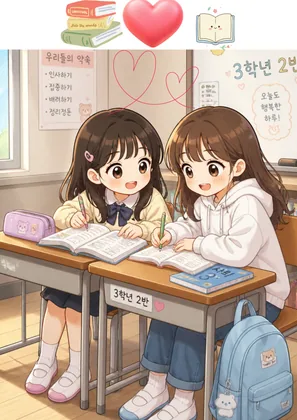
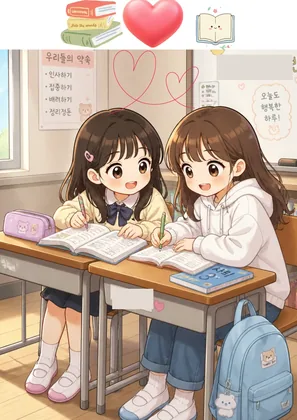
Mask class labels in two works; restyle building signs and labels
- Paint over the "3학년 2반" text inside TL-1WYZqJb (wall and desk
  label) and TL-dbGqjWr (notice board) with surrounding colours
- Building sign boards show the room name in large lettering with a
  light outline and shadow; door hints and wall titles use rounded badges
- README and HANDOFF updated

Claude-Session: https://claude.ai/code/session_012cXJKZMG6rKtYv5PJtC9mK

Changed region(s): [[0.7273, 0.1238, 0.9091, 0.2167], [0.3636, 0.681, 0.5152, 0.7429], [0.9394, 0.1238, 1.0, 0.1857]]

diff --git a/songjeong-ai-exhibition/game.js b/songjeong-ai-exhibition/game.js
@@ -236,7 +236,7 @@ const Game = (() => {
     ctx.restore();
   }
   function labelStyle(kind) {
-    return {building:{font:'16px', fill:'#fff', bg:null, stroke:'#18332b'}, small:{font:'12px', fill:'#fff', stroke:'rgba(0,0,0,.6)'}, sign:{font:'12px', fill:'#6b4e12'}, zone:{font:'13px', fill:'#18332b'}, board:{font:'15px', fill:'#6b4e12'}, title:{font:'12px', fill:'#fff', stroke:'rgba(0,0,0,.7)'}}[kind];
+    return {building:{font:'16px', fill:'#fff', bg:null, stroke:'#18332b'}, small:{font:'12px', fill:'#fff'}, sign:{font:'12px', fill:'#6b4e12'}, zone:{font:'14px', fill:'#18332b'}, board:{font:'22px', fill:'#5a3a12'}, title:{font:'12px', fill:'#fff'}}[kind];
   }
   function drawLabels(which) {
     ctx.save(); ctx.setTransform(dpr, 0, 0, dpr, 0, 0); ctx.textAlign = 'center'; ctx.textBaseline = 'middle';
@@ -247,6 +247,16 @@ const Game = (() => {
       const st = labelStyle(l.kind), sx = (l.x - camera.x) * scale, sy = (l.y - camera.y) * scale;
       ctx.font = st.font + ' ' + FONT;
       if (l.kind === 'building') { const tw = ctx.measureText(l.text).width + 18; ctx.fillStyle = l.color; roundRect(sx - tw / 2, sy - 12, tw, 24, 12); ctx.fill(); }
+      if (l.kind === 'small' || l.kind === 'title') {           // 둥근 배지
+        const tw = ctx.measureText(l.text).width + 14, th = l.kind === 'title' ? 20 : 18;
+        ctx.fillStyle = 'rgba(24,51,43,.78)'; roundRect(sx - tw / 2, sy - th / 2, tw, th, th / 2); ctx.fill();
+        ctx.fillStyle = '#fff'; ctx.fillText(l.text, sx, sy + 1); continue;
+      }
+      if (l.kind === 'board') {                                  // 간판: 큰 글자 + 밝은 외곽선 + 그림자
+        ctx.lineWidth = 5; ctx.strokeStyle = '#fff3d6'; ctx.lineJoin = 'round'; ctx.strokeText(l.text, sx, sy);
+        ctx.fillStyle = 'rgba(0,0,0,.18)'; ctx.fillText(l.text, sx + 1.5, sy + 2);
+        ctx.fillStyle = st.fill; ctx.fillText(l.text, sx, sy); continue;
+      }
       if (st.stroke) { ctx.lineWidth = 3; ctx.strokeStyle = st.stroke; ctx.strokeText(l.text, sx, sy); }
       ctx.fillStyle = l.kind === 'zone' ? l.color : st.fill;
       ctx.fillText(l.text, sx, sy);

diff --git a/songjeong-ai-exhibition/maps.js b/songjeong-ai-exhibition/maps.js
@@ -99,7 +99,7 @@ function buildVillageArt() {
     block(x0, 4, x1, 12);
     m.block(dx, 12, 0); m.block(dx + 1, 12, 0);
     m.portals.push({x:dx, y:12, to:room.id}, {x:dx + 1, y:12, to:room.id});
-    m.labels.push({x:(x0 + x1 + 1) / 2 * TILE + (i === 0 ? 12 : i === 1 ? 10 : 8), y:7.75 * TILE, text:room.icon + ' ' + room.label, kind:'board'});
+    m.labels.push({x:(x0 + x1 + 1) / 2 * TILE + (i === 0 ? 12 : i === 1 ? 10 : 8), y:7.75 * TILE, text:room.label, kind:'board'});
     m.labels.push({x:(dx + 1) * TILE, y:13.5 * TILE, text:room.hint, kind:'small'});
   });
   block(3, 10, 3, 12); block(16, 10, 17, 11); block(30, 11, 32, 12); block(44, 10, 45, 12);   // 건물 옆 덤불
@@ -138,7 +138,7 @@ function buildRoom(room, works) {
     if (b > 0) for (let x = 3; x < W - 3; x++) m.set(x, top, wallTop, true);       // 칸막이 (양 끝 통로 남김)
     for (let x = b > 0 ? 3 : 1; x < (b > 0 ? W - 3 : W - 1); x++) m.set(x, face, wall, true);
     // 구역 표지판
-    m.prop('placard', 3, face, {w:TILE * 3 - 4, h:TILE - 6, offX:2, offY:4});
+    m.prop('placard', 3, face, {w:TILE * 3 - 4, h:TILE - 4, offX:2, offY:3});
     const zoneName = row.zone + (row.first ? '' : ' (계속)');
     m.labels.push({x:4.5 * TILE, y:(face + .45) * TILE, text:zoneName.length > 10 ? zoneName.slice(0, 10) + '…' : zoneName, kind:'zone', color:room.color});
     // 작품 액자

diff --git a/songjeong-ai-exhibition/HANDOFF.md b/songjeong-ai-exhibition/HANDOFF.md
@@ -18,7 +18,7 @@ pages 배열의 각 항목은 텍스트 또는 상대 경로 이미지와 alt를
 - 1, 2번 완료: 마을(길·광장·분수·연못·나무)과 세 전시관(관별 바닥·벽 색, 구역별 전시 줄, 칸막이) 구현. 이동(방향키·D-pad·탭 길찾기)과 상단 바로가기를 유지했다. 구역별 목록·찾기 패널은 작품 앞으로 순간이동시킨다. 뷰어는 이미지 확대, 쪽 넘기기, 이전/다음 작품을 지원한다.
 - 3번 완료: 심사 시스템의 작품 목록(183편: 캐릭터 108, 포스터 37, 글짓기 38)을 전시 데이터로 옮겼다. 학생 이름·반은 싣지 않았고, 설명 글의 이름은 ○○○으로, 이미지 안의 출품자 표기(캐릭터 3편·포스터 2편)는 같은 색으로 덮었다. 글짓기는 익명 사본을 쪽마다 이미지로 넣었다. 구역은 캐릭터·포스터 학년별, 글짓기 주제별이다.
   - 포스터 3편(TL-1Wz6WYL, TL-gbXvdVP, TL-Qo9VbeG)은 원본이 8MB가 넘어 받지 못해 설명만 실렸다. 작은 사본을 받으면 images/works/<id>.webp와 썸네일을 추가하고 works.js의 pages에 image를 넣으면 된다.
-  - 작품 2편(TL-1WYZqJb, TL-dbGqjWr)에는 그림 속에 '3학년 2반'이 적혀 있다. 반 표기를 가릴지 담당자와 정한다.
+  - 작품 2편(TL-1WYZqJb, TL-dbGqjWr)의 그림 속 '3학년 2반' 표기는 담당자 결정에 따라 가렸다.
 - 4번 준수: 전시 코드와 데이터에 심사 시스템 주소, 점수, 심사위원 정보, 계정 키가 없다.
 - 5번: 휴대폰(Pixel 7)과 데스크톱 크기의 헤드리스 브라우저에서 캐릭터 선택 → 광장 걷기 → 문 입장 → 작품 보기(목록·스페이스·탭) → 다음 작품 → 출구로 광장 복귀 흐름을 확인했다. 실제 디벗 기기 확인과 공개 범위 확정은 배포 전에 담당자와 진행한다.
 - 멀티플레이(다른 관람객이 같이 보이는 기능)는 서버가 필요해 넣지 않았다. 대신 NPC 주민이 돌아다니며 안내한다.

diff --git a/songjeong-ai-exhibition/README.md b/songjeong-ai-exhibition/README.md
@@ -40,7 +40,7 @@
 
 - 심사 시스템의 작품 목록을 바탕으로 제목·설명·이미지만 옮겼습니다. 학생 이름과 반은 싣지 않고, 설명 글에 섞인 이름은 ○○○으로 바꿨습니다.
 - 구역: 캐릭터·포스터는 학년별, 글짓기는 주제별(주제 1·주제 2)입니다. 글짓기는 학년·반·이름 칸을 가린 사본을 쪽마다 이미지로 넣었습니다.
-- 이미지 안에 적힌 출품자 이름·반은 같은 색으로 덮었습니다(캐릭터 3편, 포스터 2편).
+- 이미지 안에 적힌 출품자 이름·반은 같은 색으로 덮었습니다(캐릭터 3편, 포스터 2편, 그림 속 반 표기 2편).
 - 작품을 고치거나 빼려면 works.js에서 해당 항목을 수정하고 images/works/의 파일을 바꾸면 됩니다. 형식은 works.js 상단 주석을 따릅니다. id는 고유해야 하고 이미지마다 alt(대체 텍스트)를 넣습니다.
 - 점수, 심사위원 정보, 심사 시스템 주소, 계정 키는 어디에도 넣지 않습니다.
 - 배포 전에 디벗과 휴대폰에서 광장 → 전시관 → 작품 확대 → 다음 작품/다음 쪽 → 광장 복귀를 확인하고, 관람 대상과 공개 범위를 담당자와 확정합니다.
